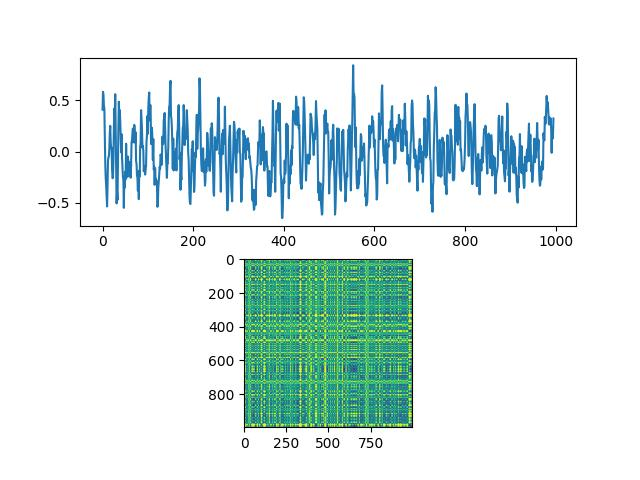
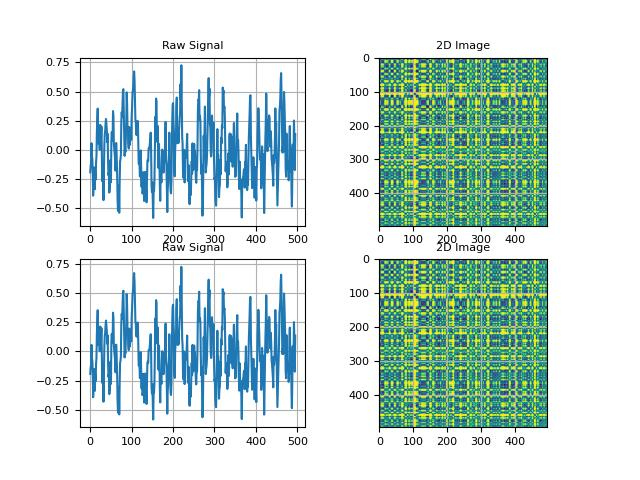
refactor: create multipurpose `RecurrencePlot`

diff --git a/main.py b/main.py
@@ -1,35 +1,58 @@
 from __future__ import division, print_function
 import numpy as np
-import pylab
+import pylab as plt
 from scipy.spatial.distance import pdist, squareform
 
-
-def calculate_convolve(signal, n=5):
-    return np.convolve(signal, np.ones((n,)) / n, mode='valid')
+from utils import calculate_convolve
 
 
-def recurrence_plot(signal, eps=0.10, steps=3):
-    _2d_array = signal[:, None]
-    # Pairwise distances
-    distance = pdist(_2d_array)
-    print(distance)
-    distance = np.floor(distance / eps)
-    print(distance)
-    distance[distance > steps] = steps
-    print(distance.shape)
-    return squareform(distance)
+# ----------------- Plot config -------------------------------------------
+SMALL = 8
+MEDIUM = 10
+BIGGER = 11
+
+plt.rc('font', size=SMALL)          # controls default text sizes
+plt.rc('axes', titlesize=SMALL)     # font size of the axes title
+plt.rc('axes', labelsize=MEDIUM)    # font size of the x and y labels
+plt.rc('xtick', labelsize=SMALL)    # font size of the tick labels
+plt.rc('ytick', labelsize=SMALL)    # font size of the tick labels
+plt.rc('legend', fontsize=SMALL)    # legend font size
+plt.rc('figure', titlesize=BIGGER)  # font size of the figure title
+# -------------------------------------------------------------------------
+
+
+class RecurrencePlot(object):
+    def __init__(self, signal, row=2, col=2):
+        self.signal = signal
+        self.size = '%d%d' % (row, col)
+
+    def recurrence_plot(self, eps=0.10, steps=3):
+        _2d_array = self.signal[:, None]
+
+        # Pairwise distances
+        distance = pdist(_2d_array)
+        distance = np.floor(distance / eps)
+        distance[distance > steps] = steps
+        return squareform(distance)
+
+    def subplot(self, x, is_signal=True, index=1, title=None, grid=True):
+        plt.subplot(int('%s%d' % (self.size, index)))
+        plt.plot(x) if is_signal else plt.imshow(x)
+        plt.title(title)
+        plt.grid(grid)
+
+    def save(self):
+        # plot with various axes scales
+        plt.figure()
+        self.subplot(self.signal, index=1, title='Raw Signal')
+        self.subplot(self.recurrence_plot(), is_signal=False, index=2, title='2D Image')
+        self.subplot(self.signal, index=3, title='Raw Signal')
+        self.subplot(self.recurrence_plot(), is_signal=False, index=4, title='2D Image')
+        plt.savefig('result.jpg')
 
 
 if __name__ == "__main__":
-    raw_signal = np.random.uniform(-1, 1, 1000)
+    raw_signal = np.random.uniform(-1, 1, 500)
     convolved_signal = calculate_convolve(raw_signal)
-
-    pylab.title("Raw Signal")
-    pylab.subplot(211)
-    pylab.plot(convolved_signal)
-
-    # pylab.title("2D Image")
-    pylab.subplot(212)
-
-    pylab.imshow(recurrence_plot(convolved_signal))
-    pylab.savefig('result.jpg')
+    rp = RecurrencePlot(convolved_signal)
+    rp.save()
